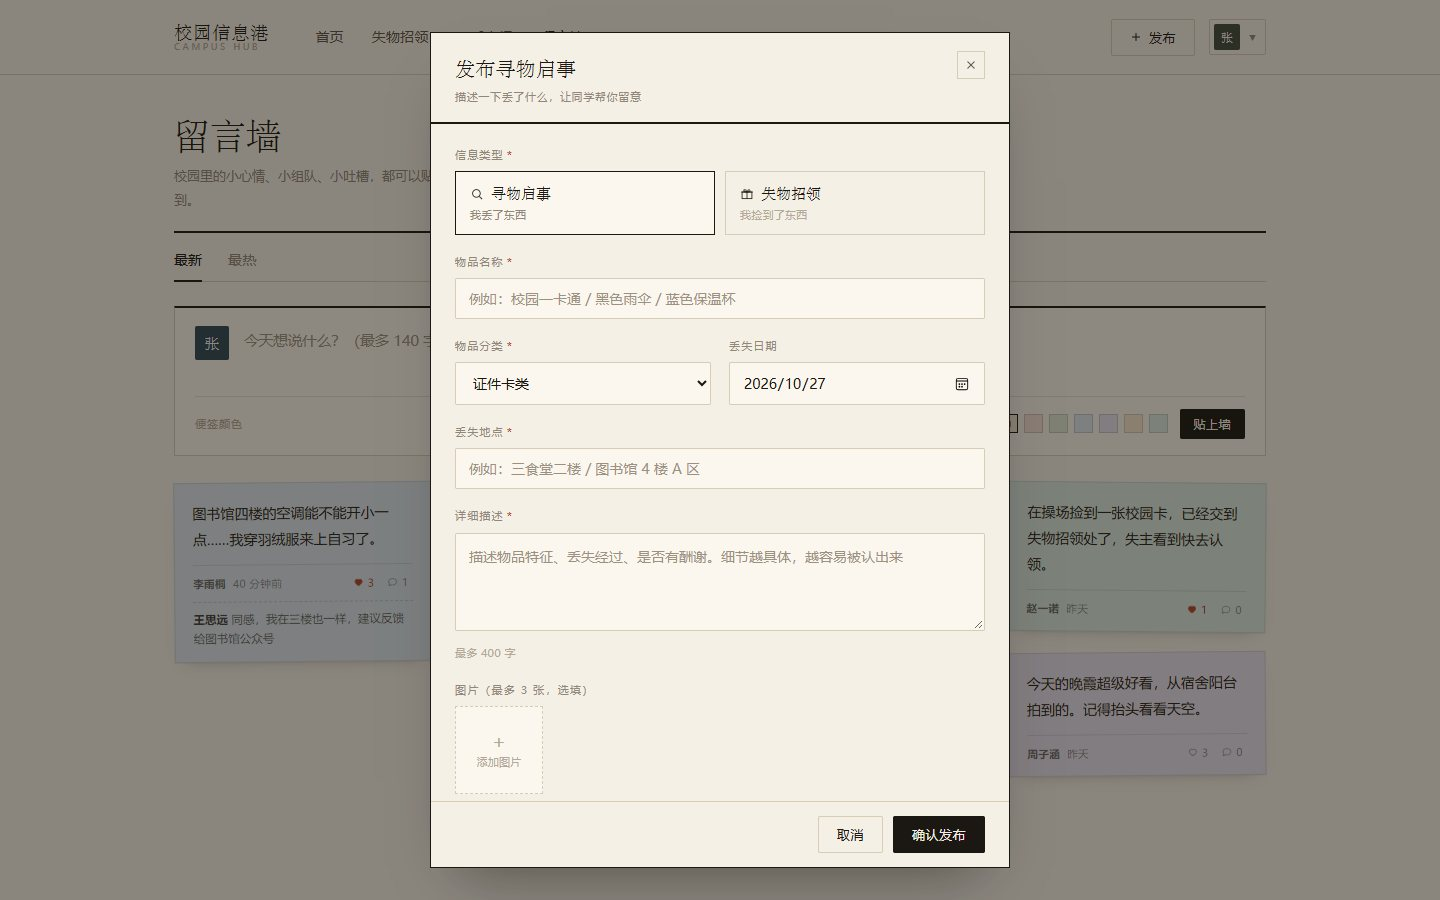
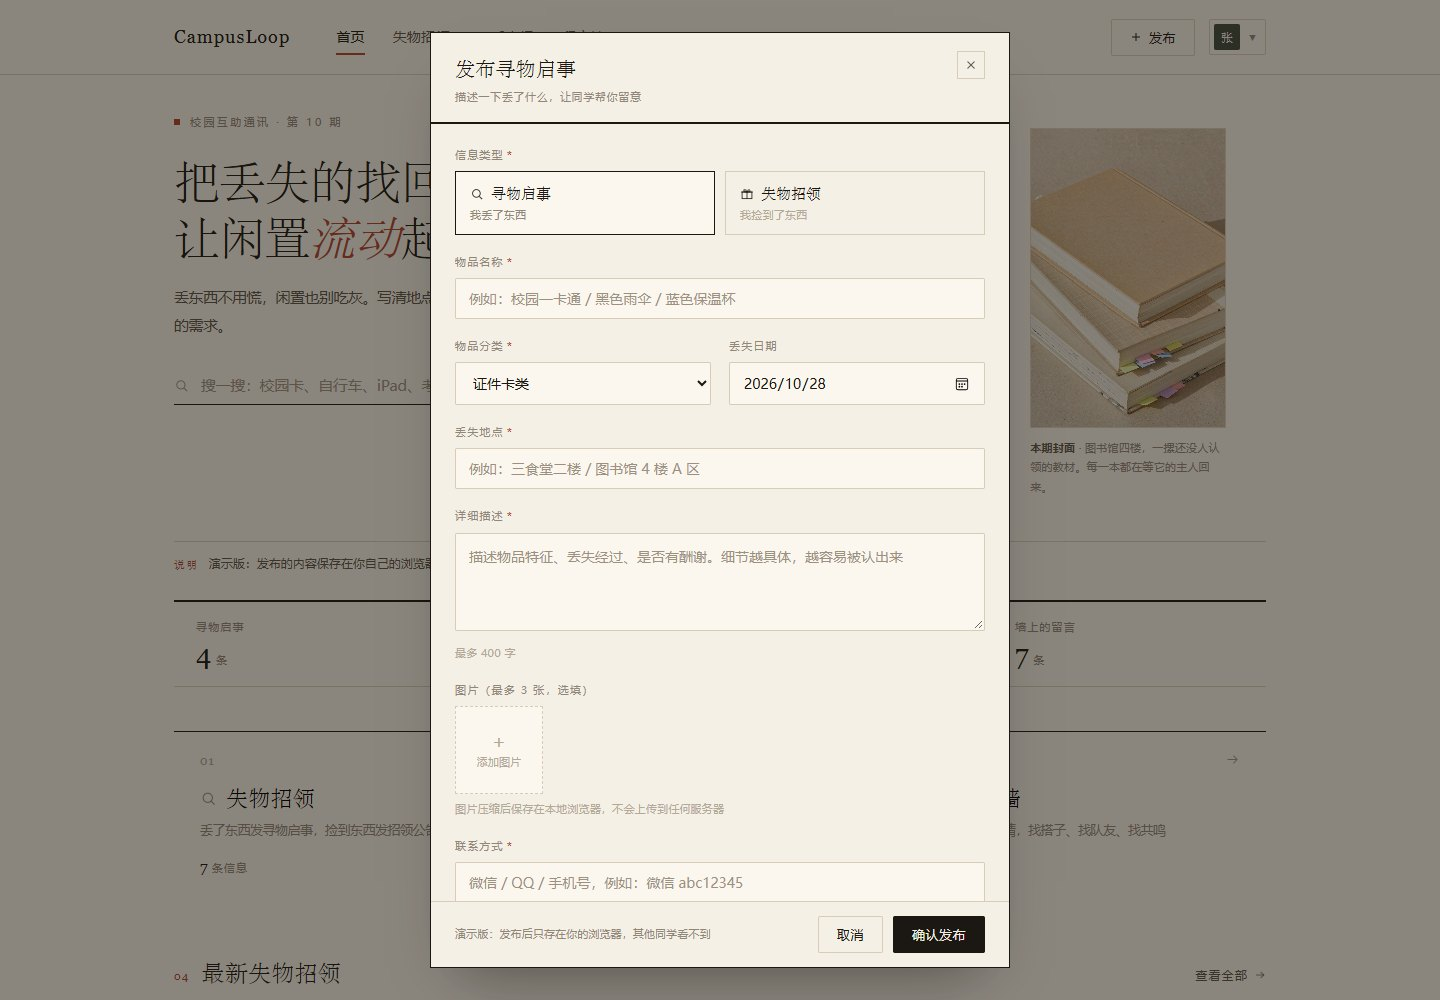
feat: 补上「发给别人用」缺的三件事
- 首页报头下加一条编者说明：演示版内容存在本机浏览器，换设备或清缓存后看不到
- 发布弹窗底部加边界提示，发布后别人看不到，避免同学误以为能跨设备同步
- 生成在线预览二维码 docs/qrcode.png（纸色底 + 墨色码，和站内配色一致）
- README 顶部放二维码与数据说明，扫码即可在手机打开
- 更新首页与发布弹窗截图

样式细节
- mast-note 用朱红小标记，像报纸编者按
- 小屏（≤520px）时发布弹窗说明独占一行，不挤按钮

diff --git a/index.html b/index.html
@@ -787,8 +787,28 @@ select.field { cursor: pointer; }
 .mast-figure figcaption b { font-weight: 600; color: var(--ink-2); }
 
 /* 数据条 */
+/* 首页编者说明：像报纸的编者按，一行细字交代边界 */
+.mast-note {
+  display: flex;
+  align-items: baseline;
+  gap: 10px;
+  margin-top: 30px;
+  padding-top: 11px;
+  border-top: 1px solid var(--rule);
+  font-size: 12px;
+  line-height: 1.7;
+  color: var(--ink-2);
+}
+.mast-note .k {
+  flex: none;
+  font-family: var(--serif);
+  font-size: 10.5px;
+  letter-spacing: .18em;
+  color: var(--accent);
+}
+
 .statbar {
-  margin-top: 40px;
+  margin-top: 26px;
   border-top: 2px solid var(--ink);
   border-bottom: 1px solid var(--rule);
   display: grid;
@@ -1593,6 +1613,14 @@ select.field { cursor: pointer; }
   display: flex;
   gap: 10px;
   justify-content: flex-end;
+  align-items: center;
+}
+/* 发布弹窗底部的边界说明，靠左、压到按钮同一行 */
+.sheet-foot .foot-note {
+  margin-right: auto;
+  font-size: 11px;
+  color: var(--ink-3);
+  letter-spacing: .01em;
 }
 
 /* =========================================================
@@ -2053,6 +2081,10 @@ select.field { cursor: pointer; }
   .topbar-right .btn .txt { display: none; }
   .section-head .num { display: none; }
   .profile-info h2 .link-btn { display: block; margin: 7px 0 0; }
+  /* 小屏上说明文字独占一行，别把两个按钮挤跑 */
+  .sheet-foot { flex-wrap: wrap; }
+  .sheet-foot .foot-note { flex: 1 0 100%; margin: 0 0 9px; }
+  .mast-note { margin-top: 22px; font-size: 11.5px; }
 }
 </style>
 </head>
@@ -2192,6 +2224,7 @@ select.field { cursor: pointer; }
     </div>
     <div class="sheet-body" id="pubBody"></div>
     <div class="sheet-foot">
+      <span class="foot-note">演示版：发布后只存在你的浏览器，其他同学看不到</span>
       <button class="btn" data-close="publishModal">取消</button>
       <button class="btn btn-solid" id="pubSubmit">确认发布</button>
     </div>
@@ -3079,6 +3112,12 @@ function renderHome() {
         '<figcaption><b>本期封面</b> · 图书馆四楼，一摞还没人认领的教材。每一本都在等它的主人回来。</figcaption>' +
       '</figure>' +
     '</div>' +
+  '</div>';
+
+  /* ---- 编者说明 ---- */
+  html += '<div class="mast-note">' +
+    '<span class="k">说明</span>' +
+    '<span class="tx">演示版：发布的内容保存在你自己的浏览器里，换设备或清理缓存后看不到。</span>' +
   '</div>';
 
   /* ---- 数据条 ---- */

diff --git a/README.md b/README.md
@@ -4,11 +4,18 @@
 >   
 > 一个纯前端的校园信息互助平台：**失物招领 / 二手市场 / 留言墙** 三合一。
 
-**在线预览**：<https://espoirdre.github.io/CampusLoop/>
-  
+**在线预览**：<https://espoirdre.github.io/CampusLoop/>  
 **代码仓库**：<https://github.com/Espoirdre/CampusLoop>
 
-打开 `index.html` 就能用，不需要安装任何依赖、不需要后端服务。
+<img src="docs/qrcode.png" width="190" alt="扫码在手机上打开">
+
+手机扫码直接打开，建议在浏览器菜单里「添加到主屏幕」，用起来跟 App 差不多。
+
+也可以在电脑上双击 `index.html`，不需要安装任何依赖、不需要后端服务。
+
+> **关于数据**：这是纯前端演示版，发布的内容存在各自浏览器的 `localStorage` 里，
+> 换设备、换浏览器、清理缓存都会看不到，同学之间也不互通。
+> 想让多人共用一套数据，需要接云端数据库（见「下一步可以做」）。
 
 ![首页](docs/screenshots/02-home.jpg)
 
